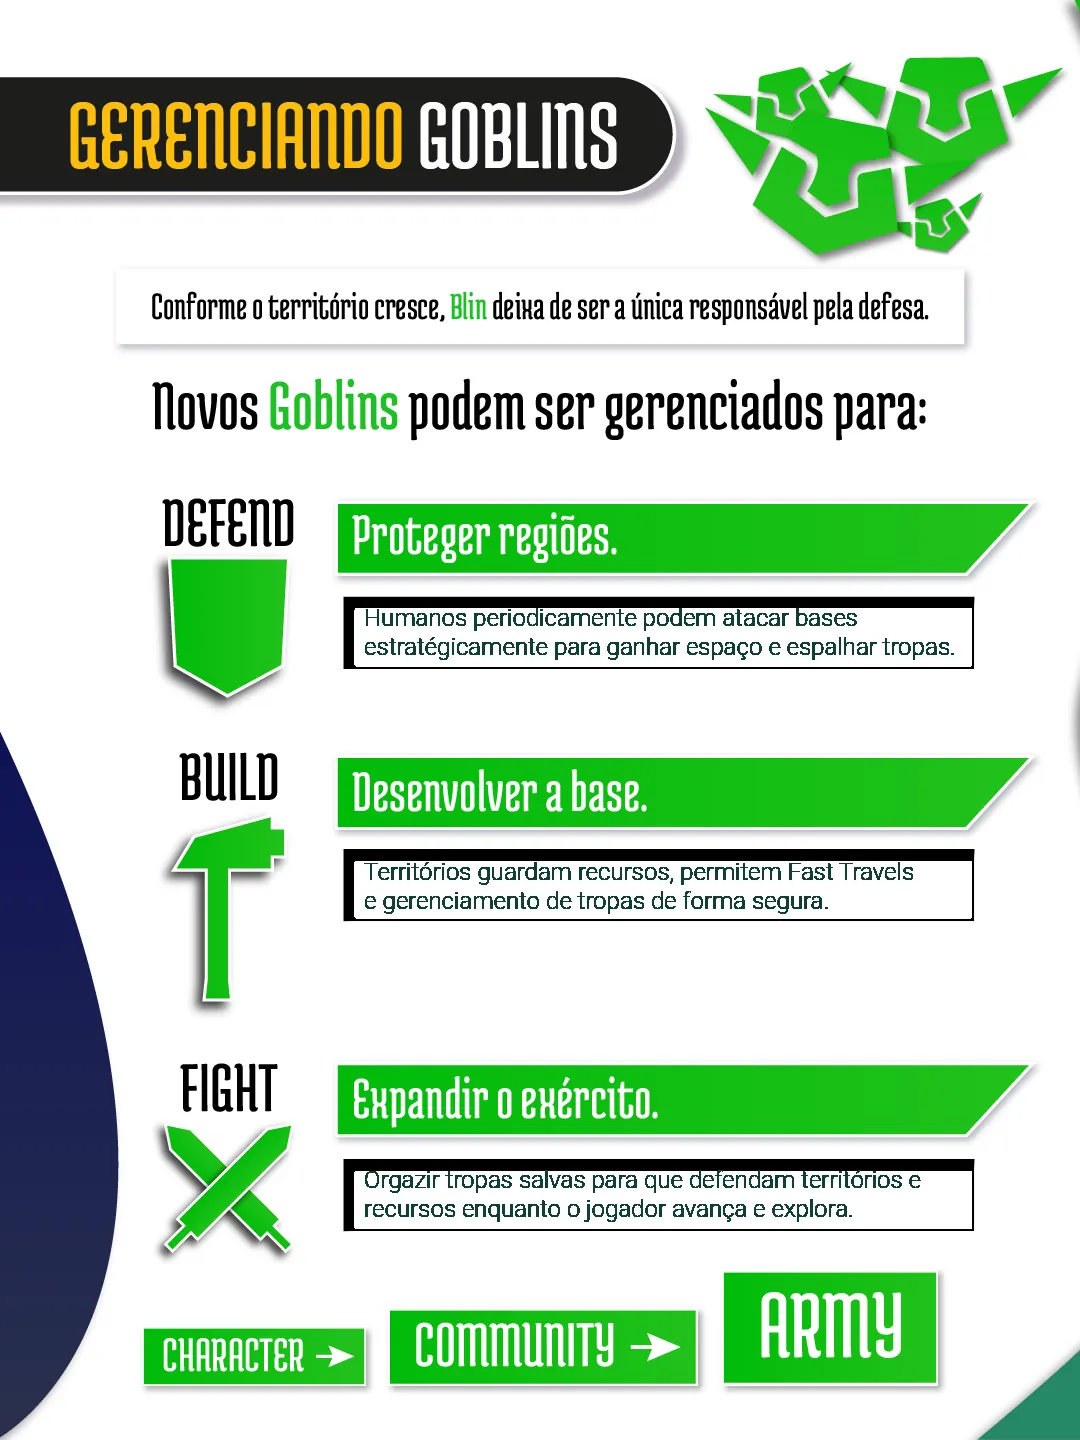
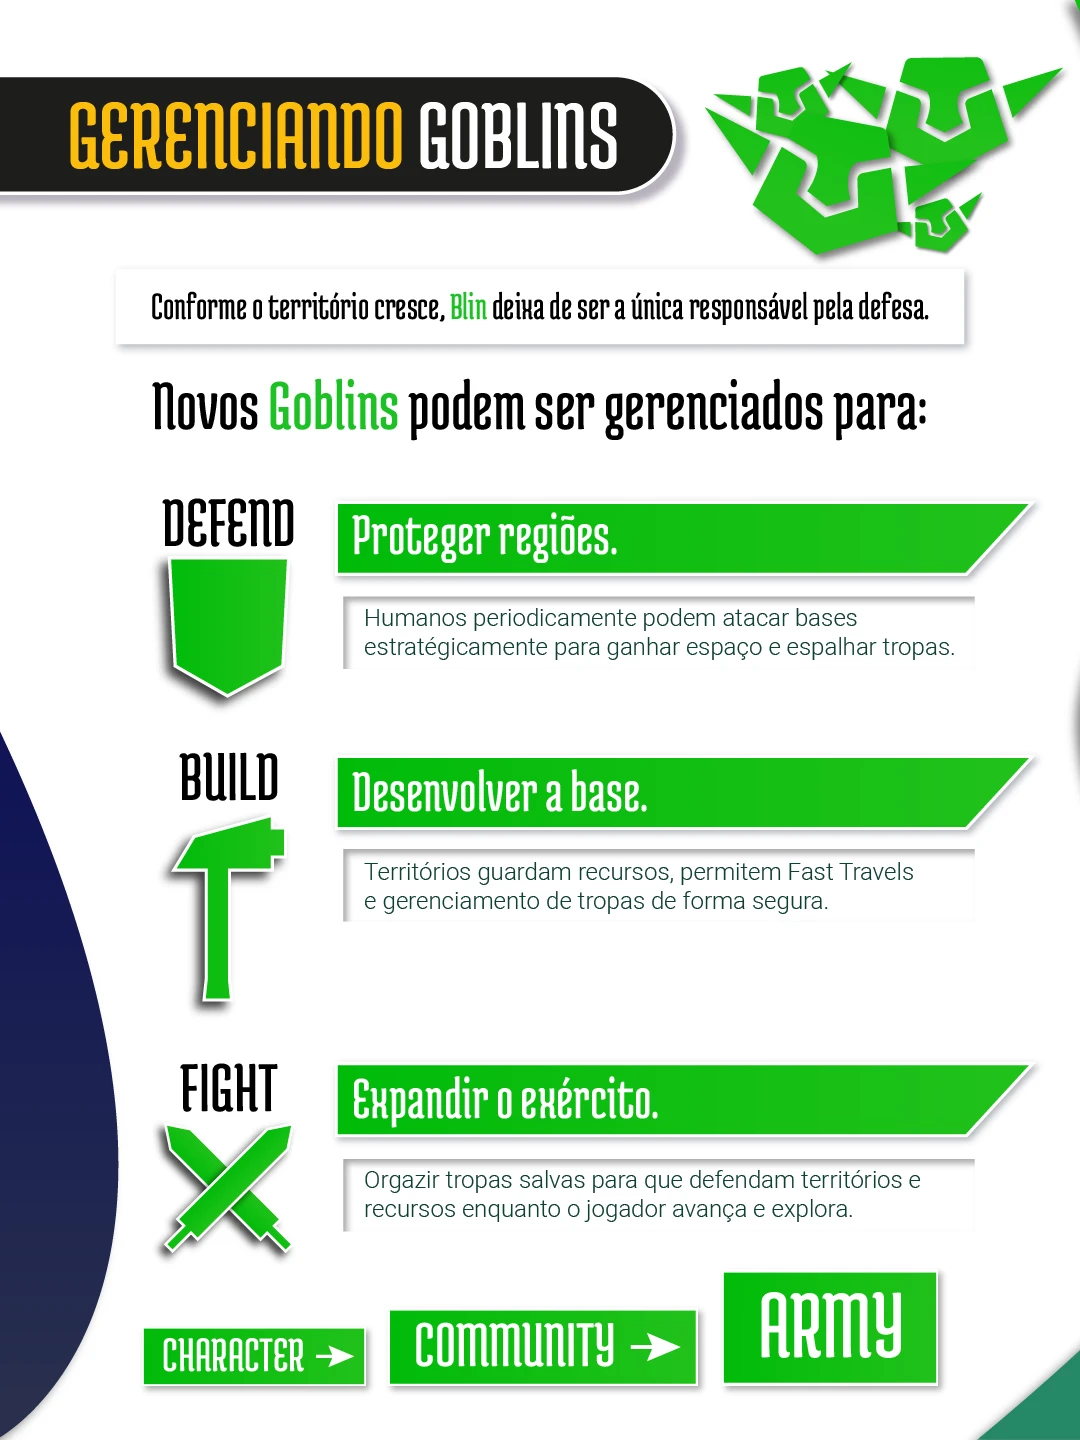
Remove cursor personalizado, adiciona créditos da equipe e selo de protótipo jogável no Slime

Changed region(s): [[0.3056, 0.5625, 0.9167, 0.6562], [0.3056, 0.4062, 0.9167, 0.4688], [0.3056, 0.7812, 0.9167, 0.875]]

diff --git a/index.html b/index.html
@@ -206,7 +206,21 @@ button{font:inherit}
 .band.fold:last-child .wave-b{display:block}
 .psum{display:grid;grid-template-columns:minmax(0,1.25fr) minmax(0,1fr);gap:clamp(24px,5vw,72px);align-items:center;padding:0 var(--pad)}
 .band.flip .psum{grid-template-columns:minmax(0,1fr) minmax(0,1.25fr)}
-.band.flip .pcover{order:2}
+.band.flip .pcov-wrap{order:2}
+.pcov-wrap{position:relative}
+.seal{all:unset;box-sizing:border-box;position:absolute;right:-22px;top:-26px;z-index:3;width:118px;height:118px;border-radius:50%;background:var(--red);color:var(--white);border:4px solid var(--black);box-shadow:5px 5px 0 var(--black);display:flex;flex-direction:column;align-items:center;justify-content:center;text-align:center;cursor:pointer;transform:rotate(12deg);animation:sealBob 2.4s ease-in-out infinite}
+.seal::before{content:"";position:absolute;inset:6px;border-radius:50%;border:2px dashed rgba(255,255,255,.7);animation:sealSpin 12s linear infinite}
+.seal .s1{font-family:var(--display);font-size:40px;line-height:.85;color:var(--yellow);text-shadow:2px 2px 0 var(--black)}
+.seal .s2{font-family:var(--pixel);font-size:11px;line-height:1.1;max-width:84px;margin-top:4px}
+.seal:hover{background:#ff3b2f}
+.seal:focus-visible{outline:3px solid var(--yellow);outline-offset:4px}
+@keyframes sealBob{0%,100%{transform:rotate(12deg) scale(1)}50%{transform:rotate(6deg) scale(1.07)}}
+@keyframes sealSpin{to{transform:rotate(360deg)}}
+@media (prefers-reduced-motion:reduce){.seal,.seal::before{animation:none}}
+.pteam{margin:-12px 0 22px;font-size:14px;display:flex;flex-wrap:wrap;gap:6px 8px;align-items:center}
+.pteam .tl{font-family:var(--pixel);opacity:.75;margin-right:2px}
+.pteam a{text-decoration:none;font-weight:500;padding:2px 10px;border-radius:30px;border:2px solid currentColor;transition:background .2s,color .2s}
+.pteam a:hover{background:var(--fg);color:var(--bg)}
 .pcover{all:unset;display:block;cursor:pointer;aspect-ratio:3/2;border-radius:20px;overflow:hidden;border:3px solid var(--black);box-shadow:10px 10px 0 var(--shadow,var(--black));background:var(--black);transition:transform .25s,box-shadow .25s}
 .pcover img{width:100%;height:100%;object-fit:cover;transition:transform .6s}
 .pcover:hover{transform:translate(-3px,-3px);box-shadow:13px 13px 0 var(--shadow,var(--black))}
@@ -228,7 +242,7 @@ button{font:inherit}
 .pmore-in .ptop > div:first-child{display:none}
 .pmore-in .ptop .desc{max-width:70ch}
 @media (prefers-reduced-motion:reduce){.pmore,.pmore-in,.pcover,.pcover img{transition:none}}
-@media (max-width:860px){.psum,.band.flip .psum,.id-sum{grid-template-columns:1fr;gap:26px}.band.flip .pcover{order:0}.band.fold{margin-top:50px}.band.fold .wave{height:30px}.pshort{font-size:16px;margin:12px 0 20px}}
+@media (max-width:860px){.psum,.band.flip .psum,.id-sum{grid-template-columns:1fr;gap:26px}.band.flip .pcov-wrap{order:0}.seal{width:96px;height:96px;right:-6px;top:-22px}.seal .s1{font-size:32px}.seal .s2{font-size:10px}.band.fold{margin-top:50px}.band.fold .wave{height:30px}.pshort{font-size:16px;margin:12px 0 20px}}
 
 /* dragão: linha do tempo do processo */
 .process{display:grid;grid-template-columns:minmax(0,1.5fr) minmax(0,1fr);gap:clamp(24px,4vw,60px);padding:0 var(--pad);align-items:center}
@@ -646,13 +660,6 @@ button.act:focus-visible{outline:3px solid #ffd001;outline-offset:3px}
 .lbx .pv{left:16px;top:50%;margin-top:-26px}
 .lbx .nx{right:16px;top:50%;margin-top:-26px}
 
-/* ---------- cursor ---------- */
-.cursor{position:fixed;left:0;top:0;z-index:120;pointer-events:none;width:22px;height:22px;margin:-11px 0 0 -11px;border-radius:50%;background:var(--red);border:2px solid var(--black);display:grid;place-items:center;font-family:var(--pixel);font-size:12px;color:var(--white);transition:width .2s,height .2s,margin .2s,background .2s}
-.cursor.drag,.cursor.view{width:74px;height:74px;margin:-37px 0 0 -37px}
-.cursor.drag{background:var(--yellow);color:var(--black)}
-.cursor.drag::after{content:attr(data-drag)}
-.cursor.view::after{content:attr(data-view)}
-@media (hover:none){.cursor{display:none}}
 
 .reveal{opacity:0;transform:translateY(40px) rotate(-2deg);transition:opacity .8s,transform .9s cubic-bezier(.2,.8,.2,1)}
 .reveal.in{opacity:1;transform:none}
@@ -908,7 +915,6 @@ html.sp-lock-scroll,html.sp-lock-scroll body{overflow:hidden}
   </div>
 </div>
 
-<div class="cursor" aria-hidden="true" data-drag="DRAG" data-view="VIEW"></div>
 
 <nav class="nav" aria-label="Main">
   <a class="brand" href="#top"><img src="assets/img/brand/logo-stack.webp" alt="GeDodo"></a>
@@ -2106,6 +2112,13 @@ window.SlimeProto = SlimeProto;
 const A = "assets/img/";
 const range = (slug, n) => Array.from({length:n}, (_, i) => `${A}${slug}/s${String(i+1).padStart(2,"0")}.webp`);
 
+/* colegas que fizeram os projetos comigo: nome e link que cada um pediu */
+const PEOPLE = {
+  luiz: ["Luiz Leão", "https://luizleao.carrd.co/"],
+  eduardo: ["Eduardo Wolinger", "https://www.instagram.com/eduardo.wolinger/"],
+  tiago: ["Tiago Souza", "https://www.instagram.com/tejota.gg/"],
+  artur: ["Artur Hauache", "https://www.instagram.com/artur.hauache02/"]
+};
 const PROJECTS = [
   {
     id: "slime", bg: "#123a73", fg: "#ffffff", shadow: "#ffb01a",
@@ -2123,6 +2136,7 @@ const PROJECTS = [
   },
   {
     id: "racer", bg: "#1d1d1b", fg: "#ffffff", shadow: "#e42320",
+    team: ["luiz", "tiago", "artur", "eduardo"],
     cover: A+"racer/final.webp",
     short: { en: "A serious game that puts you behind the wheel with someone else's eyes. Paper at CSEDU 2024 and Most Popular Game at PUC Game Show.", pt: "Um jogo sério que coloca você ao volante com os olhos de outra pessoa. Artigo na CSEDU 2024 e Jogo Mais Popular no PUC Game Show." },
     title: "Disability Racer",
@@ -2137,6 +2151,7 @@ const PROJECTS = [
   },
   {
     id: "seed", type: "seed", bg: "#6b4423", fg: "#ffffff", shadow: "#7ed957",
+    team: ["luiz", "eduardo"],
     cover: A+"seed/cover.webp",
     short: { en: "An idle clicker about planting trees, made in 72 hours by a team of three at BGS Jam 2022.", pt: "Um clicker sobre plantio de árvores, feito em 72 horas por uma equipe de três pessoas na BGS Jam 2022." },
     title: "Seed Clicker",
@@ -2148,6 +2163,7 @@ const PROJECTS = [
   },
   {
     id: "goblin", bg: "#2a1c5c", fg: "#ffffff", shadow: "#3ddc4a",
+    team: ["luiz", "tiago", "artur", "eduardo"],
     cover: A+"goblin/final.webp",
     short: { en: "Territory control where every region you conquer is one more you have to protect.", pt: "Controle de território em que cada região conquistada é mais uma para proteger." },
     title: "Go Blin! Human Slayer",
@@ -2176,6 +2192,7 @@ const PROJECTS = [
   },
   {
     id: "wizards", bg: "#1646a8", fg: "#ffffff", shadow: "#ffb01a",
+    team: ["luiz", "tiago", "eduardo"],
     cover: A+"wizards/final.webp",
     short: { en: "A three-player PvP board game on a modular hex board, decided by positioning, arrow direction and dice.", pt: "Um jogo de tabuleiro PvP para três jogadores num tabuleiro hexagonal modular, decidido por posicionamento, direção das setas e dados." },
     title: "League of Wizards",
@@ -2387,7 +2404,7 @@ const T = {
     "contact.t1":"Let's make a game,","contact.t2":"it's gonna be awesome.","contact.text":"Open to opportunities in concept art, game art, visual development and game design.",
     "foot":"GeDodo by Douglas de Souza Castro",
     "gate.enter":"View portfolio","gate.pick":"Choose your language",
-    sketch:"Sketch", final:"Final", compare:"Drag to compare", wip:"In progress", openP:"See full project", closeP:"Collapse", openI:"See full identity",
+    sketch:"Sketch", final:"Final", compare:"Drag to compare", wip:"In progress", openP:"See full project", closeP:"Collapse", team:"Team", seal1:"Play", seal2:"playable prototype", openI:"See full identity",
     stage:"Stage", play:"Play the process", pause:"Pause", seeFinal:"See final render", timelapse:"Watch timelapse",
     slide:"slide", prev:"Previous", next:"Next", view:"VIEW", drag:"DRAG", scrub:"Move through",
     ticker:["Concept art","Creature design","Encounter design","Systems design","Visual development","Art direction","Worldbuilding"],
@@ -2432,7 +2449,7 @@ const T = {
     "contact.t1":"Vamos criar um jogo,","contact.t2":"vai ser massa.","contact.text":"Aberto a oportunidades em concept art, game art, visual development e game design.",
     "foot":"GeDodo, por Douglas de Souza Castro",
     "gate.enter":"Ver portfólio","gate.pick":"Escolha o idioma",
-    sketch:"Esboço", final:"Final", compare:"Arraste para comparar", wip:"Em andamento", openP:"Ver projeto completo", closeP:"Recolher", openI:"Ver identidade completa",
+    sketch:"Esboço", final:"Final", compare:"Arraste para comparar", wip:"Em andamento", openP:"Ver projeto completo", closeP:"Recolher", team:"Equipe", seal1:"Jogue", seal2:"protótipo jogável", openI:"Ver identidade completa",
     stage:"Etapa", play:"Ver o processo", pause:"Pausar", seeFinal:"Ver arte final", timelapse:"Ver timelapse",
     slide:"slide", prev:"Anterior", next:"Próximo", view:"VER", drag:"ARRASTE", scrub:"Navegar por",
     ticker:["Concept art","Design de criatura","Design de encontro","Design de sistemas","Visual development","Direção de arte","Worldbuilding"],
@@ -2578,14 +2595,18 @@ function makeCollapsible(band, p, pi){
   const more = el("div", "pmore"), inner = el("div", "pmore-in"); more.appendChild(inner); more.id = "more-" + p.id;
   [...band.children].forEach(c => { if (!c.classList.contains("wave") && !c.classList.contains("s-forest") && !c.classList.contains("uni-pat")) inner.appendChild(c); });
   const sum = el("div", "psum");
-  sum.innerHTML = `<button type="button" class="pcover" aria-controls="${more.id}" aria-expanded="false" tabindex="-1"><img src="${R(p.cover)}" alt="" loading="lazy" decoding="async"></button>
+  sum.innerHTML = `<div class="pcov-wrap"><button type="button" class="pcover" aria-controls="${more.id}" aria-expanded="false" tabindex="-1"><img src="${R(p.cover)}" alt="" loading="lazy" decoding="async"></button>
+      ${p.proto ? `<button type="button" class="seal"><span class="s1"></span><span class="s2"></span></button>` : ""}</div>
     <div class="ptext"><p class="kind">${icon(p.icon)}<span></span></p><h3 class="reveal">${p.title}${p.wip ? '<span class="wip"></span>' : ""}</h3><p class="pshort"></p>
+      ${p.team ? `<p class="pteam"><span class="tl"></span> ${p.team.map(k => `<a href="${PEOPLE[k][1]}" target="_blank" rel="noopener">${PEOPLE[k][0]}</a>`).join(" ")}</p>` : ""}
       <button type="button" class="btn pbtn" aria-controls="${more.id}" aria-expanded="false"><span></span><svg class="ico chev" aria-hidden="true"><use href="#i-arrow"/></svg></button></div>`;
   band.appendChild(sum); band.appendChild(more); band.appendChild(bottom.firstChild);
   addWave($(".wave-b", band), pi * 1.7 + 3, true);
   const btns = [$(".pcover", sum), $(".pbtn", sum)];
   bind(sum, n => { $(".kind span", n).textContent = L(p.kind); $(".pshort", n).textContent = L(p.short); if (p.wip) $(".wip", n).textContent = tr("wip");
-    $(".pbtn span", n).textContent = band.classList.contains("open") ? tr("closeP") : tr("openP"); $(".pcover img", n).alt = p.title; });
+    $(".pbtn span", n).textContent = band.classList.contains("open") ? tr("closeP") : tr("openP"); $(".pcover img", n).alt = p.title;
+    if (p.team) $(".pteam .tl", n).textContent = tr("team");
+    if (p.proto){ $(".seal .s1", n).textContent = tr("seal1"); $(".seal .s2", n).textContent = tr("seal2"); } });
   inner.inert = true;
   const set = open => {
     if (!open && band.getBoundingClientRect().top < 0) band.scrollIntoView({ behavior: reduce ? "auto" : "smooth" });
@@ -2595,6 +2616,9 @@ function makeCollapsible(band, p, pi){
   };
   btns.forEach(b => b.addEventListener("click", () => set(!band.classList.contains("open"))));
   band._open = () => set(true);
+  /* selo do protótipo: abre o bloco e desce até o jogo */
+  const seal = $(".seal", sum);
+  if (seal) seal.onclick = () => { if (!band.classList.contains("open")) set(true); setTimeout(() => { const g = $(".proto", band); if (g) g.scrollIntoView({ behavior: reduce ? "auto" : "smooth", block: "start" }); }, reduce ? 0 : 650); };
 }
 /* link direto para um projeto (#p-slime) já abre o bloco */
 const openFromHash = () => { const b = location.hash && document.getElementById(location.hash.slice(1)); if (b && b._open){ b._open(); } };
@@ -3064,7 +3088,6 @@ bind($("#inv"), n => {
   });
 })();
 bind($("#ticker"), n => { const one = tr("ticker").map((w, i) => `<span>${w}</span>${icon(["i-tri","i-up","i-slider","i-target","i-dash"][i % 5])}`).join(""); n.innerHTML = one + one + one; });
-bind($(".cursor"), n => { n.dataset.view = tr("view"); n.dataset.drag = tr("drag"); });
 
 /* ---------- idioma ---------- */
 function setLang(l){
@@ -3127,16 +3150,6 @@ if (!reduce) requestAnimationFrame(frame);
 /* nav sólida depois do hero */
 addEventListener("scroll", () => $(".nav").classList.toggle("solid", scrollY > innerHeight * .7), { passive: true });
 
-/* ---------- cursor ---------- */
-(() => {
-  const c = $(".cursor"); if (!matchMedia("(hover:hover)").matches) return;
-  let x = -100, y = -100, cx = x, cy = y;
-  addEventListener("pointermove", e => { x = e.clientX; y = e.clientY; const t = e.target;
-    const view = t.closest && t.closest(".pano button, .card > button, .frame");
-    const drag = t.closest && t.closest(".track") && !t.closest(".compare");
-    c.classList.toggle("view", !!view); c.classList.toggle("drag", !view && !!drag); });
-  const loop = () => { cx += (x - cx) * .25; cy += (y - cy) * .25; c.style.transform = `translate(${cx}px,${cy}px)`; requestAnimationFrame(loop); }; loop();
-})();
 
 /* ---------- tela de entrada: a composição da identidade se desmonta e vira o hero ---------- */
 (() => {
